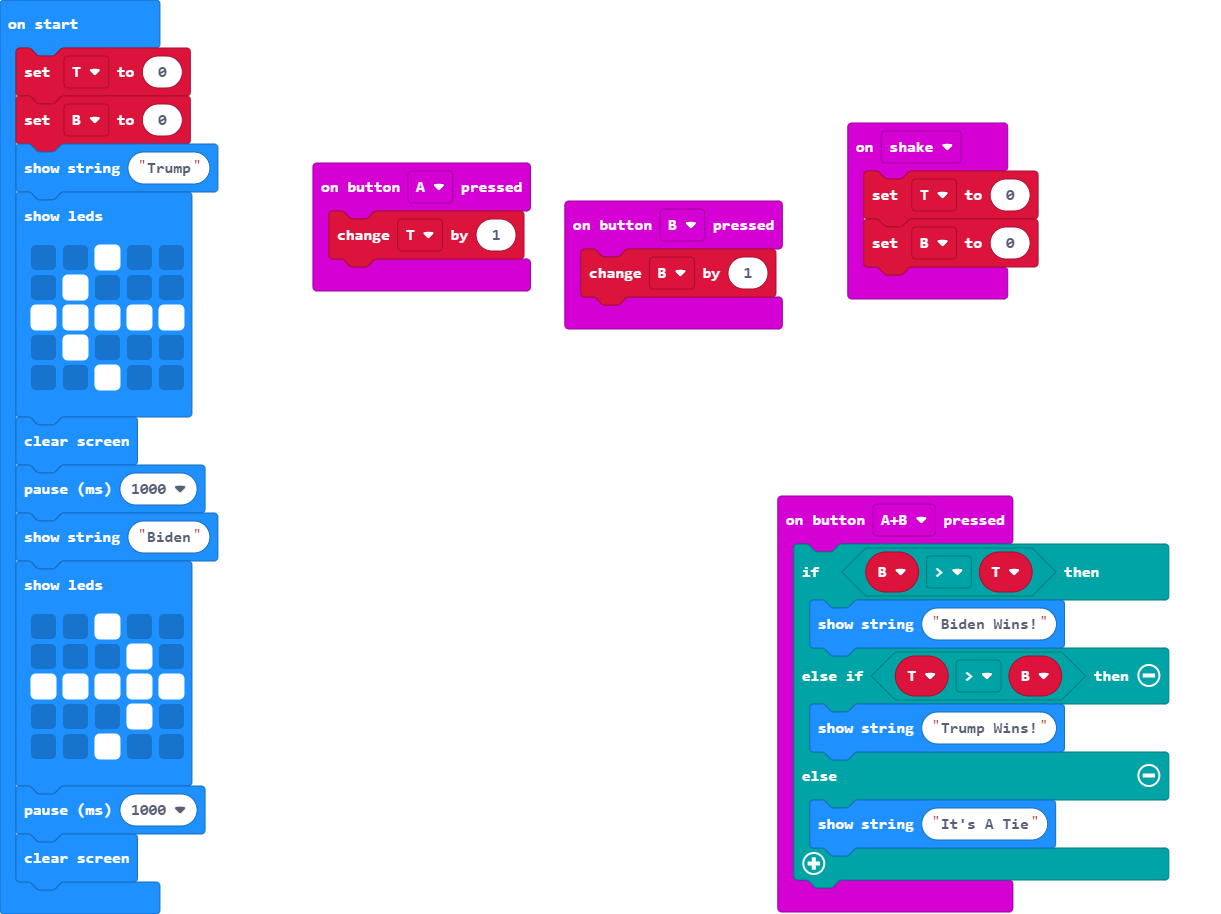
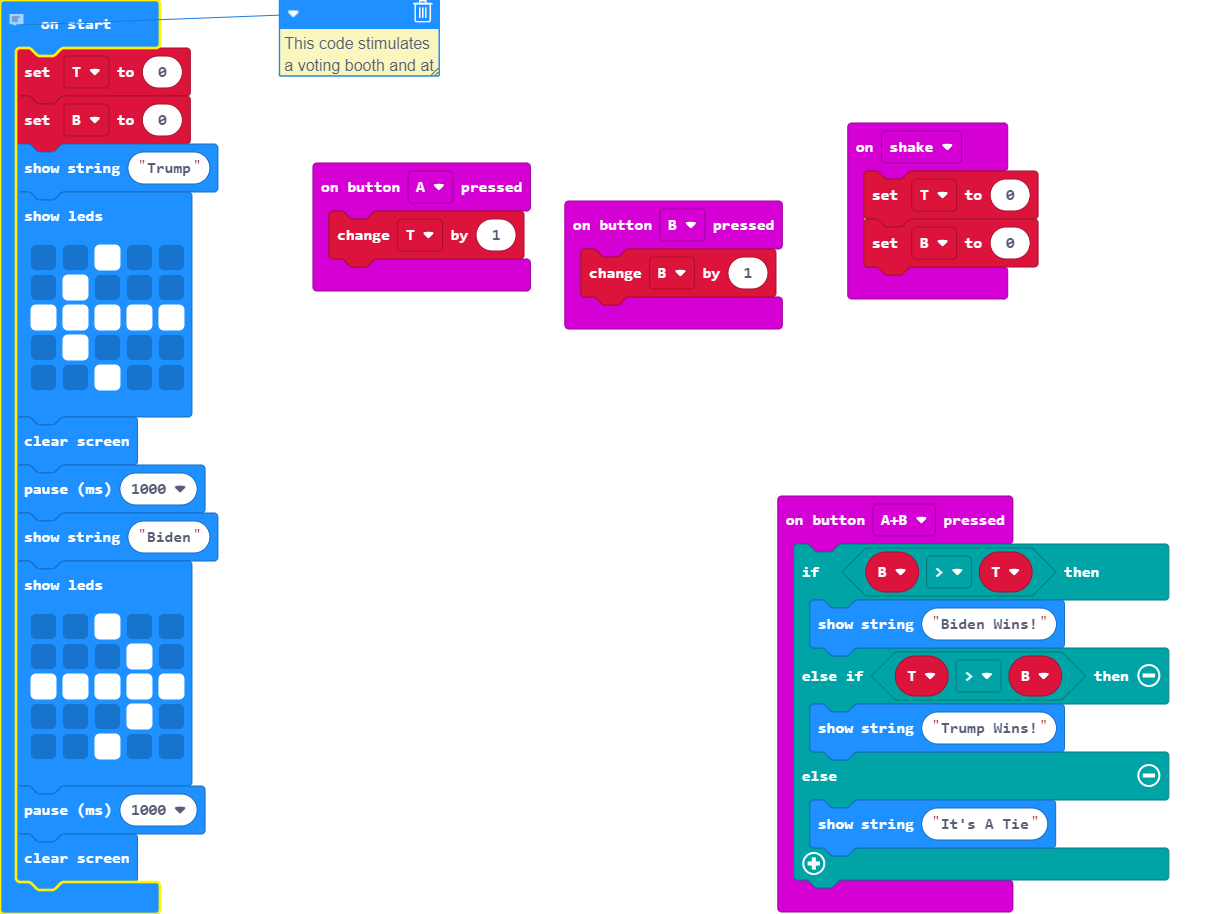
Update main.blocks, main.ts

Changed region(s): [[0.0, 0.0, 0.1556, 1.0], [0.2179, 0.0, 0.3735, 0.0919], [0.1245, 0.0, 0.1556, 0.0306]]

diff --git a/main.ts b/main.ts
@@ -17,6 +17,7 @@ input.onGesture(Gesture.Shake, function () {
     T = 0
     B = 0
 })
+// This code stimulates a voting booth and at the end someone can see who / what got the most votes.
 let B = 0
 let T = 0
 T = 0
